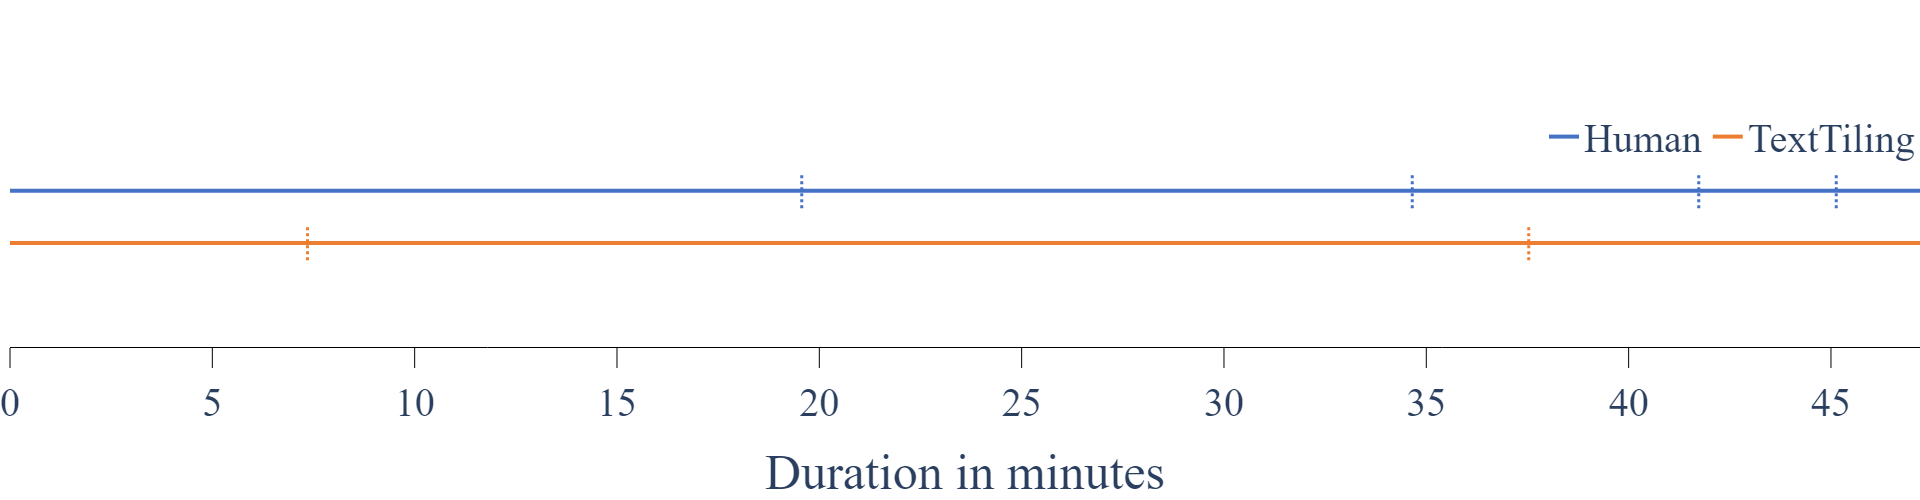
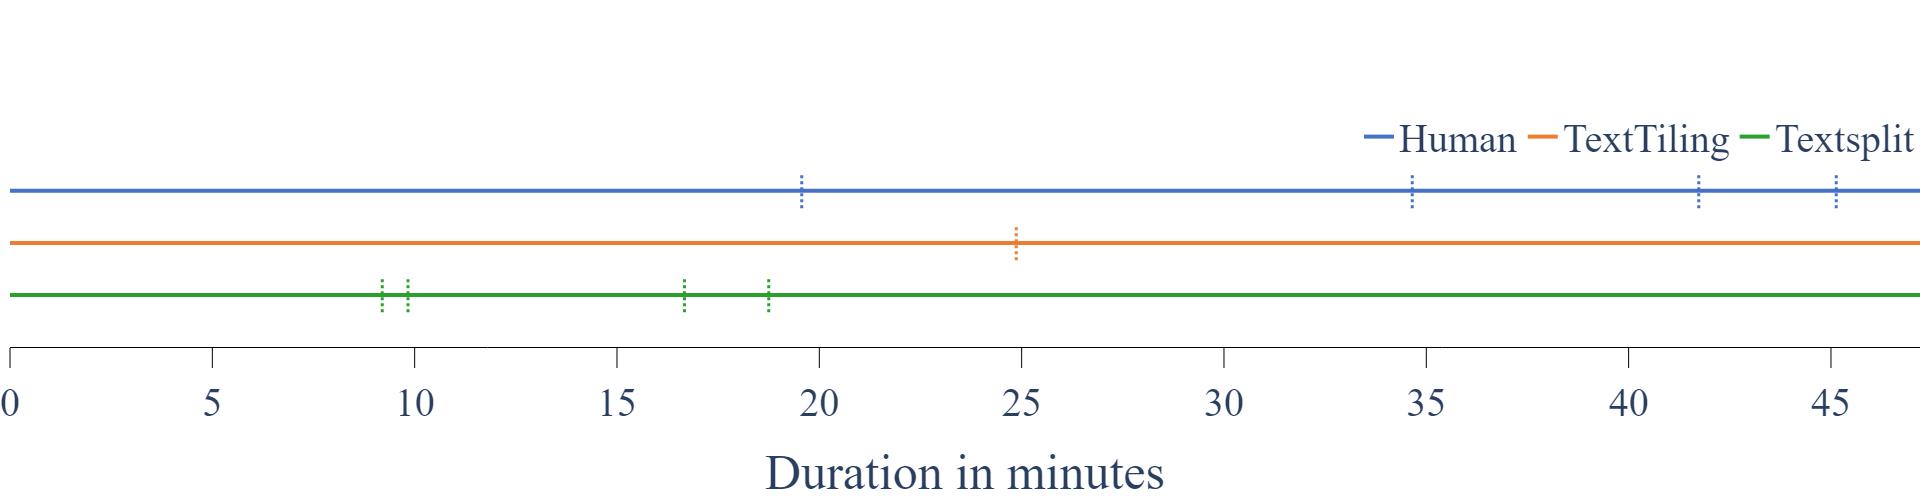
new plots added

Changed region(s): [[0.0, 0.57, 1.0, 0.6], [0.7188, 0.24, 1.0, 0.33]]

diff --git a/Images in paper/Topic Segmentation Results/timeline_plots.py b/Images in paper/Topic Segmentation Results/timeline_plots.py
@@ -13,16 +13,16 @@ pio.kaleido.scope.default_format = "png"
 pio.kaleido.scope.default_width = 1920
 pio.kaleido.scope.default_height = 500
 
-timestamps_human = ["00:00", "19:34", "34:39", "41:44", "45:08", "47:12"]
-timestamps_texttiling = ["00:00", "07:21", "37:32", "47:12"]
-# timestamps_textsplit = ["00:00", "19:34", "34:39", "41:44", "45:08", "47:12"]
+timestamps_human = ["00:00", "12:53", "17:37", "22:06", "32:36", "41:09", "44:21"]
+timestamps_texttiling = ["00:00", "13:47", "20:03", "29:59", "36:43", "44:21"]
+timestamps_textsplit = ["00:00", "17:58", "21:51", "30:41", "32:26", "37:08", "44:21"]
 
 def convert_to_seconds(t):
     return int(t[:2])*60 + int(t[3:])
 
 timestamps_human_s = [convert_to_seconds(t) for t in timestamps_human]
 timestamps_texttiling_s = [convert_to_seconds(t) for t in timestamps_texttiling]
-# timestamps_textsplit_s = [convert_to_seconds(t) for t in timestamps_textsplit]
+timestamps_textsplit_s = [convert_to_seconds(t) for t in timestamps_textsplit]
 
 last_min = int(timestamps_human[-1][:2])
 ticks = list(range(0, last_min, 5))
@@ -78,28 +78,28 @@ for i in range(1, len(timestamps_texttiling_s )-1):
             color="#ED7D31",
     ))
 
-# fig.add_trace(go.Scatter(
-#     x=timestamps_textsplit_s,
-#     y=[y_position[0]] * len(timestamps_textsplit_s ),
-#     mode="lines",
-#     line=dict(
-#         width=4,
-#         color="#2ca02c",
-#     ),
-#     name="Textsplit",
-# ))
-# for i in range(1, len(timestamps_textsplit_s )-1):
-#     fig.add_shape(
-#         type="line",
-#         x0=timestamps_textsplit_s [i],
-#         y0=y_position[0]-0.05,
-#         x1=timestamps_textsplit_s [i],
-#         y1=y_position[0]+0.05,
-#         line=dict(
-#             width=3,
-#             dash="dot",
-#             color="#2ca02c",
-#     ))
+fig.add_trace(go.Scatter(
+    x=timestamps_textsplit_s,
+    y=[y_position[0]] * len(timestamps_textsplit_s ),
+    mode="lines",
+    line=dict(
+        width=4,
+        color="#2ca02c",
+    ),
+    name="Textsplit",
+))
+for i in range(1, len(timestamps_textsplit_s )-1):
+    fig.add_shape(
+        type="line",
+        x0=timestamps_textsplit_s [i],
+        y0=y_position[0]-0.05,
+        x1=timestamps_textsplit_s [i],
+        y1=y_position[0]+0.05,
+        line=dict(
+            width=3,
+            dash="dot",
+            color="#2ca02c",
+    ))
 
 
 axes_title_font = dict(family="Times", size=50)
@@ -138,4 +138,4 @@ fig.update_layout(
     font=axes_tick_font
 )
 # fig.show()
-fig.write_image(path + "/Images in paper/Topic Segmentation Results/timeline_BAmeeting_2021-03-11.png")
+fig.write_image(path + "/Images in paper/Topic Segmentation Results/debate.png")

diff --git a/Images in paper/Topic Segmentation Results/Score-Analysis-TS.py b/Images in paper/Topic Segmentation Results/Score-Analysis-TS.py
@@ -20,7 +20,7 @@ def segmentation_score(timestamp1, timestamp2):
     d1 = analyze_distance(timestamp1_s, timestamp2_s) 
     d2 = analyze_distance(timestamp2_s, timestamp1_s)
     print(d1, d2)
-    return round(np.mean(d1+d2),2)
+    return round(np.median(d1+d2),2)
 
 
 test1 = ["00:00", "29:34", "45:29", "46:08", "47:12"]
@@ -32,11 +32,11 @@ test2 = ["00:00", "19:34", "34:39", "45:08", "47:12"]
 test1 = ["00:00", "20:34", "35:29", "46:08", "47:12"]
 test2 = ["00:00", "19:34", "45:08", "47:12"]
 
-test1 = ["00:00", "19:34", "34:39", "41:44", "45:08", "47:12"]
-test2 = ["00:00", "07:21", "37:32", "47:12"]
-
 # test1 = ["00:00", "19:34", "34:39", "41:44", "45:08", "47:12"]
-# test2 = ["00:00", "13:40", "24:52", "26:57", "41:44", "47:12"]
+# test2 = ["00:00", "07:21", "37:32", "47:12"]
+
+test1 = ["00:00", "12:53", "17:37", "22:06", "32:36", "41:09", "44:21"]
+test2 = ["00:00", "17:58", "21:51", "30:41", "32:26", "37:08", "44:21"]
 
 # test1 = ["00:00", "05:34", "09:39", "11:44", "14:08"]
 # test2 = ["00:00", "03:40", "08:52", "11:57", "14:08"]
